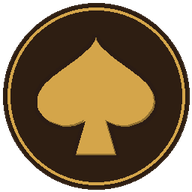
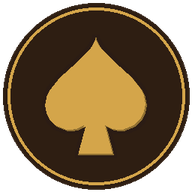
Make clubs and spades tell themselves apart without colour
Reported directly: "the shapes look nearly identical" and clubs/spades
should be "more color blind friendly". Simulating the two common
dichromacies (deuteranopia and protanopia, together ~8% of men) showed it
was worse than similar — the forest green and the soot brown both collapse
to the same olive, so the King of Clubs and the King of Spades became THE
SAME CARD, corner pips included.

Both cues are now fixed, because each covers what the other cannot.

Colour: clubs move from green to a deep slate blue. Blue is the one hue that
cannot collapse into the other three, since both common forms of colour
blindness confuse hues along the red-green axis. It is deeper and more
saturated than PICTURE_SKY, the room's other blue, because a card is held up
in front of the scenery. This is what carries the corner pips, which are far
too small for shape to help.

Shape: the club's lobes were claimed by their own comment to sit at "a
wide-enough arrangement radius to keep a visible waist between them". They
did not — the two lower lobes sat 0.46w apart with radii summing to 0.47w,
so they overlapped, and the top lobe overlapped both heavily. The union had
no concave notches and rendered as one rounded mass, which against the
spade's teardrop was near enough the same silhouette. The lobes are now
spread and shrunk until they genuinely separate, so the outline pass draws
between them instead of bridging them, and it reads as a clover. The first
[…]

diff --git a/art/generate_art.py b/art/generate_art.py
@@ -154,7 +154,16 @@ PIP_FILL_BLACK = (72, 54, 42, 255)  # a "soot brown" — dark like ink, but visi
 # Reported directly: players couldn't tell spade and club face cards apart. All four suits now
 # get their own hue, not just the two colour-pairs.
 DIAMOND_BODY = (196, 120, 40, 255)  # warm amber/rust — distinct from hearts' red, still warm
-CLUB_BODY = (58, 96, 64, 255)       # deep forest green — distinct from spades' near-black brown
+# Blue, not the forest green this used to be. Green was distinct from spades' brown to normal
+# colour vision and to nothing else: simulated for the two common dichromacies (deuteranopia and
+# protanopia, together ~8% of men) the green and the brown both collapse to the same olive, and
+# the King of Clubs and the King of Spades became the SAME CARD, corner pips included. Blue is
+# the one hue that cannot collapse into the other three, because both common forms of colour
+# blindness confuse hues along the red-green axis and leave blue standing.
+#
+# Deeper and more saturated than PICTURE_SKY above, which is the room's other blue: a card is
+# held up in front of the scenery, so the two must not read as the same paint.
+CLUB_BODY = (46, 86, 138, 255)      # deep slate blue — survives red-green colour blindness
 
 SUITS = ["clubs", "diamonds", "hearts", "spades"]
 RANKS = ["9", "10", "J", "Q", "K", "A"]
@@ -561,9 +570,18 @@ def _heart_mask(w, h):
 
 
 def _spade_mask(w, h):
+    # Narrower and taller than the full-width bell this used to be. Against the club it was the
+    # same broad rounded mass at the same weight, which is what made the two read as one shape
+    # once colour stopped helping (see CLUB_BODY). Pulling the bell in to 86% of the pip box and
+    # letting it run taller gives the spade a pointed silhouette the club cannot have, at every
+    # size down to the corner pips.
+    inset = w * 0.07
     def fn(d, ox, oy):
-        d.polygon(_heart_curve_points(w, h * 0.76, ox, oy, lobes_up=False), fill=255)
-        _stem(d, ox, oy, w, h, top_frac=0.58, top_w_frac=0.09, foot_w_frac=0.34)
+        d.polygon(
+            _heart_curve_points(w - inset * 2, h * 0.80, ox + inset, oy, lobes_up=False),
+            fill=255,
+        )
+        _stem(d, ox, oy, w, h, top_frac=0.62, top_w_frac=0.09, foot_w_frac=0.30)
 
     return fn
 
@@ -579,12 +597,22 @@ def _diamond_mask(w, h):
 
 
 def _club_mask(w, h):
+    # The comment above this block claimed "a wide-enough arrangement radius to keep a visible
+    # waist between them". It wasn't: the two lower lobes sat 0.46w apart with radii summing to
+    # 0.47w, so they OVERLAPPED, and the top lobe overlapped both heavily. The union had no
+    # concave notches at all and rendered as a single blob — which against the spade's teardrop
+    # was near enough the same silhouette, and identical once the colours collapsed.
+    #
+    # Now the centres are spread and the lobes shrunk so that adjacent pairs still meet, but
+    # meet with a real waist: lower pair 0.40w apart against a 0.43w diameter sum, leaving a
+    # notch about 0.16w wide. Wide enough to survive the outline pass and to still read at the
+    # corner-pip size, which is the one that has to work in a fanned hand.
     def fn(d, ox, oy):
-        lobe_r = w * 0.235
-        for lx, ly in ((0.5, 0.24), (0.27, 0.55), (0.73, 0.55)):
+        lobe_r = w * 0.195
+        for lx, ly in ((0.5, 0.22), (0.28, 0.585), (0.72, 0.585)):
             cx, cy = ox + w * lx, oy + h * ly
             d.ellipse((cx - lobe_r, cy - lobe_r, cx + lobe_r, cy + lobe_r), fill=255)
-        _stem(d, ox, oy, w, h, top_frac=0.52, top_w_frac=0.10, foot_w_frac=0.30)
+        _stem(d, ox, oy, w, h, top_frac=0.54, top_w_frac=0.10, foot_w_frac=0.30)
 
     return fn
 
